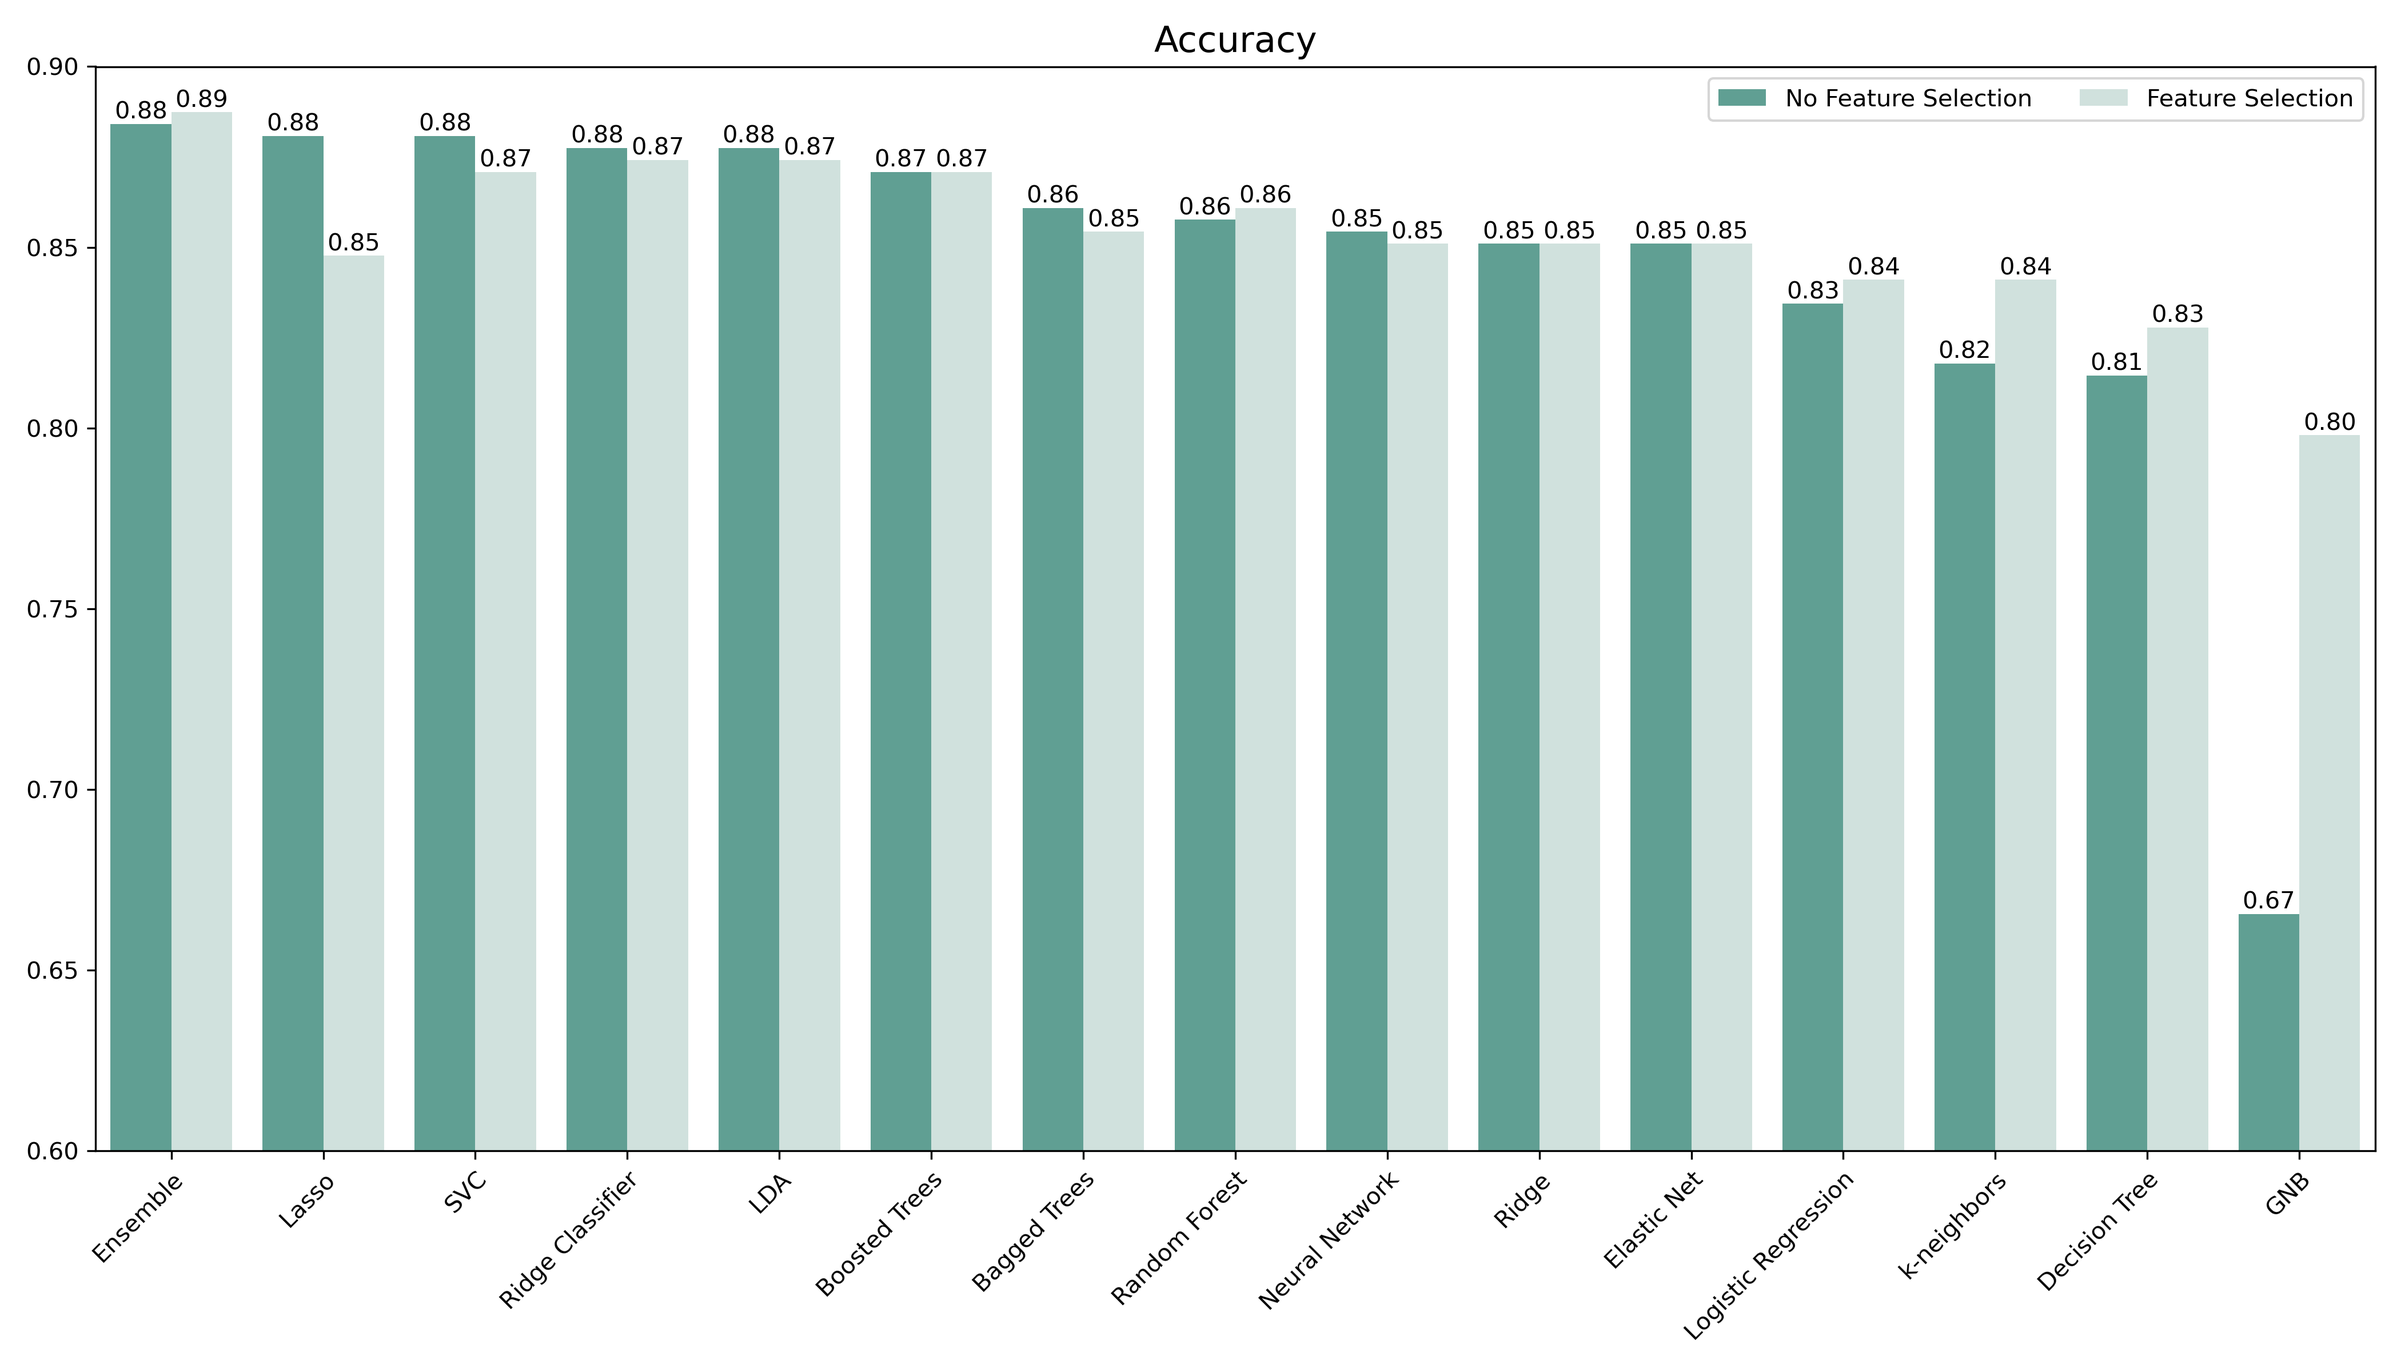
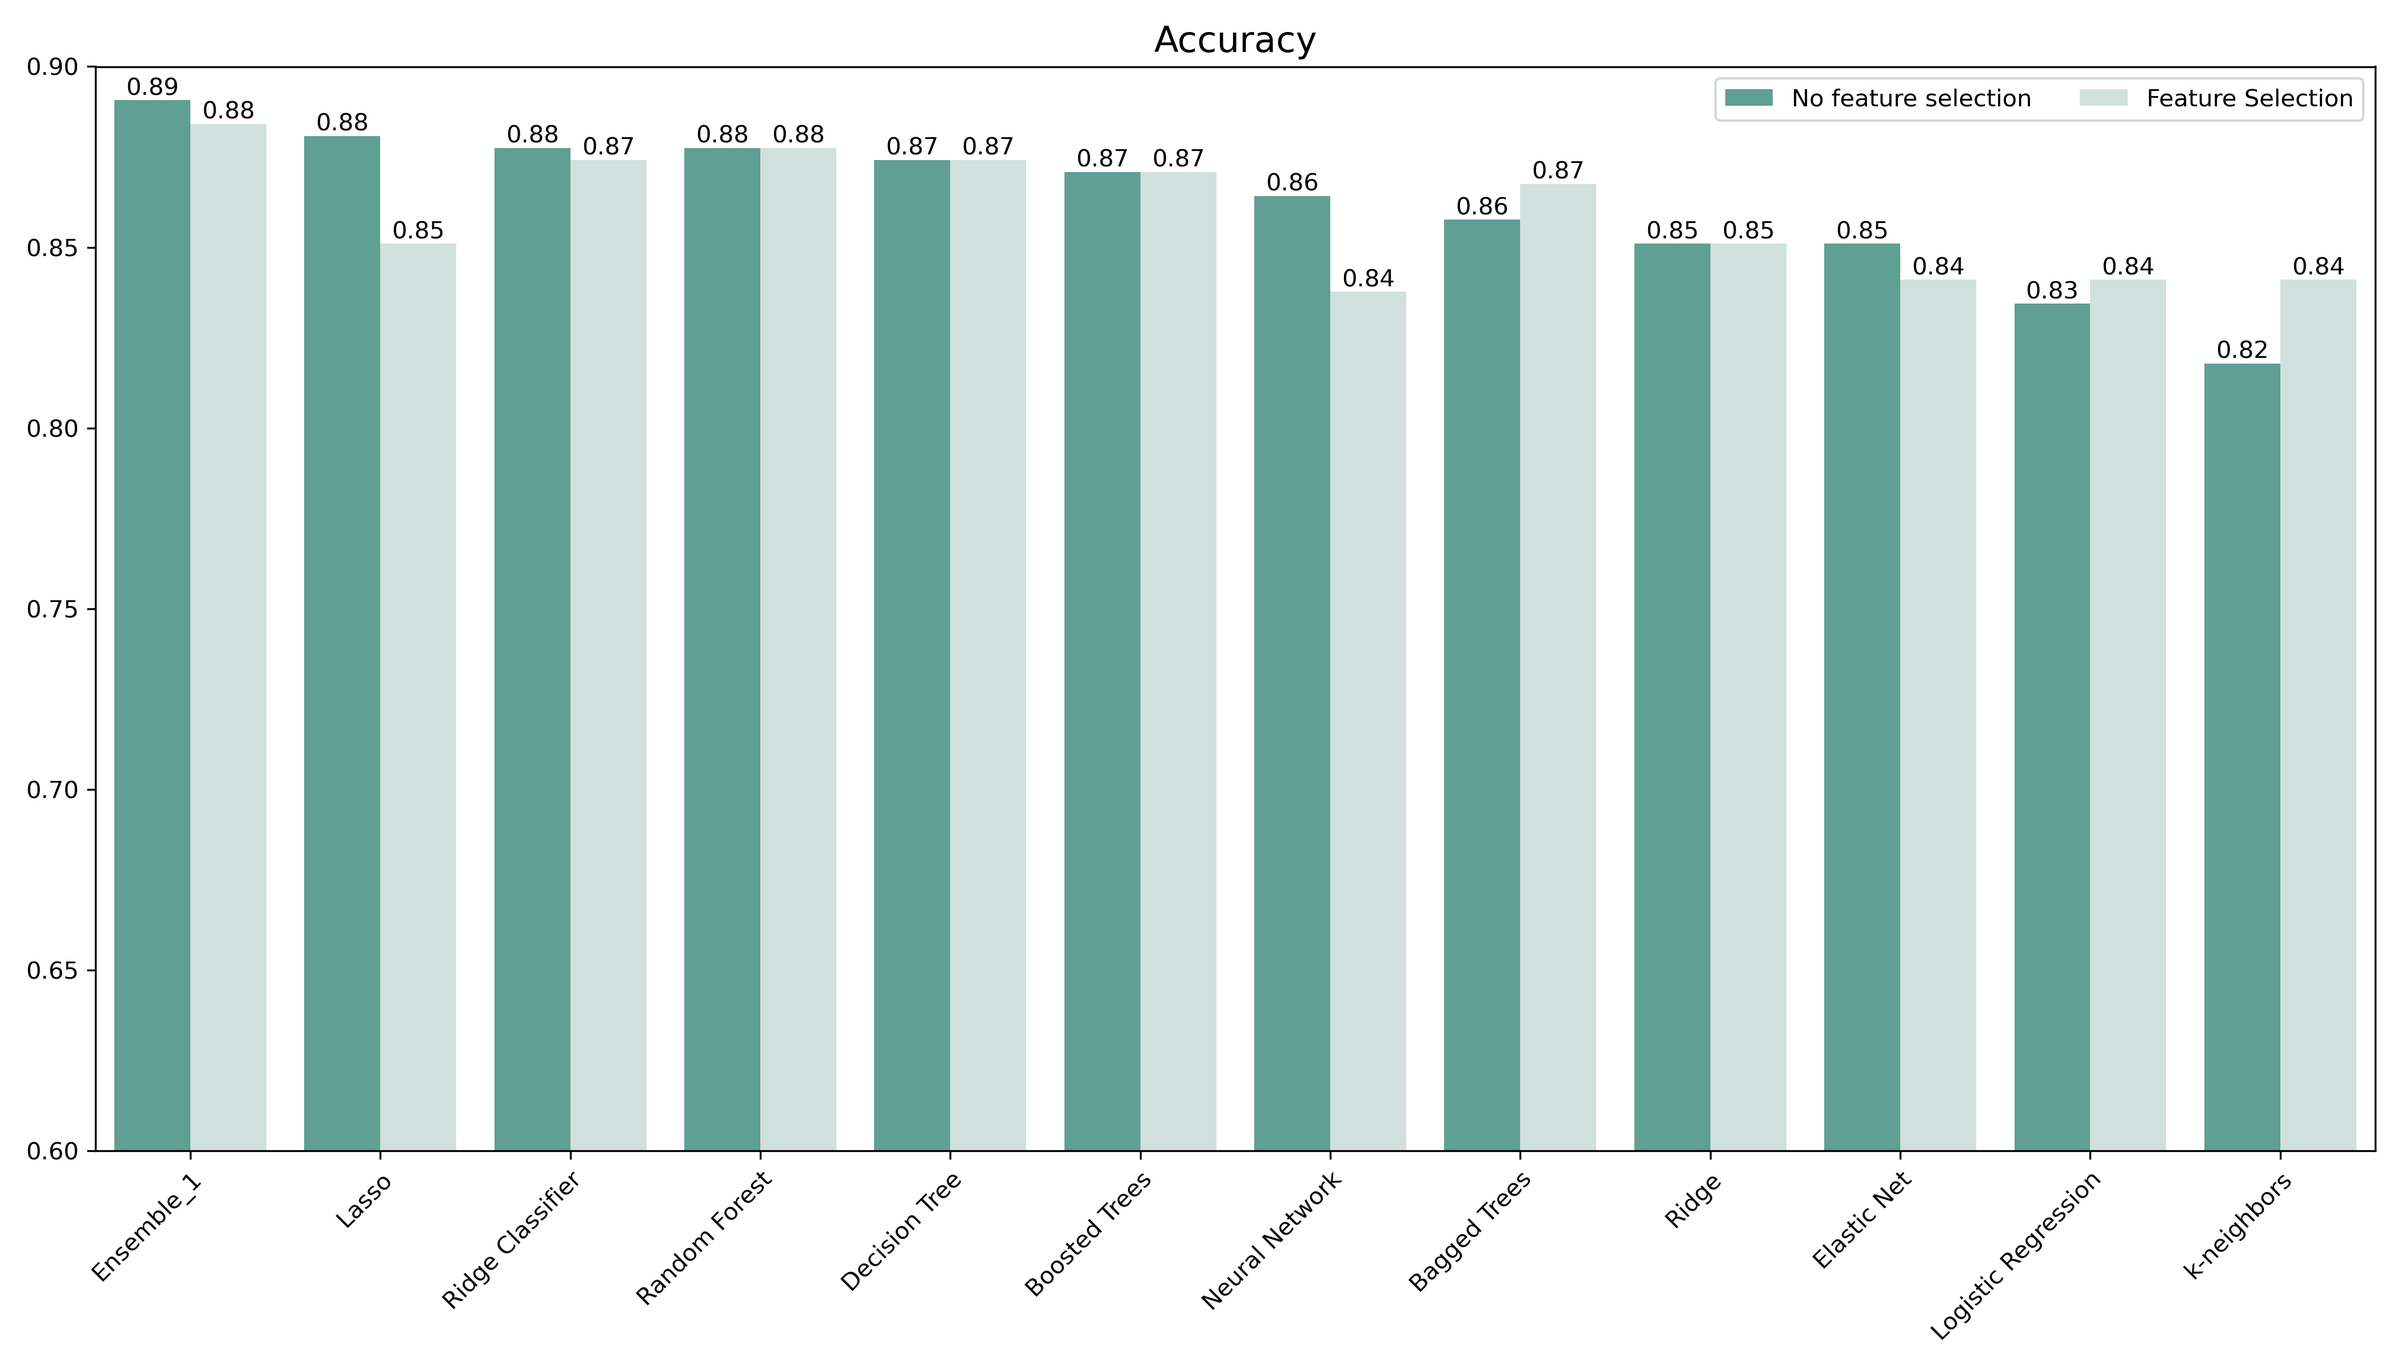
Commit before removing partyid. Also adding visualization for trees.

diff --git a/model_trump.py b/model_trump.py
@@ -23,10 +23,8 @@ from sklearn.feature_selection import SelectFromModel
 
 # sklearn: models:
 from sklearn.neural_network import MLPClassifier
-from sklearn.linear_model import LogisticRegression, RidgeClassifierCV
+from sklearn.linear_model import LogisticRegression, RidgeClassifier
 from sklearn.tree import DecisionTreeClassifier, plot_tree
-from sklearn.naive_bayes import GaussianNB
-from sklearn.discriminant_analysis import LinearDiscriminantAnalysis
 from sklearn.neighbors import KNeighborsClassifier
 from sklearn.svm import SVC
 from sklearn.ensemble import (
@@ -215,12 +213,9 @@ cat_vars = cat_vars.rename(
     }
 )
 
-cat_cols = 3
-cat_rows = 2
-
-fig, axes = plt.subplots(cat_rows, cat_cols, figsize=(14, 8))
+fig, axes = plt.subplots(2, 3, figsize=(14, 8))
 for index, key in enumerate(cat_vars):
-    plt.subplot(cat_rows, cat_cols, index + 1)
+    plt.subplot(2, 3, index + 1)
     sns.countplot(
         data=cat_vars,
         x=key,
@@ -250,10 +245,9 @@ spend_vars = spend_vars.rename(
     }
 )
 
-
-fig, axes = plt.subplots(cat_rows, cat_cols, figsize=(14, 8))
+fig, axes = plt.subplots(2, 3, figsize=(14, 8))
 for index, key in enumerate(spend_vars):
-    plt.subplot(cat_rows, cat_cols, index + 1)
+    plt.subplot(2, 3, index + 1)
     sns.countplot(
         data=spend_vars,
         x=key,
@@ -285,12 +279,9 @@ bin_vars = bin_vars.rename(
     }
 )
 
-bin_cols = 3
-bin_rows = 3
-
-fig, axes = plt.subplots(bin_rows, bin_cols, figsize=(14, 8))
+fig, axes = plt.subplots(3, 3, figsize=(14, 8))
 for index, key in enumerate(bin_vars):
-    plt.subplot(bin_rows, bin_cols, index + 1)
+    plt.subplot(3, 3, index + 1)
     sns.countplot(data=bin_vars, x=key, palette="colorblind")
     plt.ylabel(None)
     plt.xlabel(None)
@@ -315,12 +306,9 @@ con_vars = con_vars.rename(
     }
 )
 
-con_cols = 2
-con_rows = 3
-
-fig, axes = plt.subplots(con_rows, con_cols, figsize=(14, 8))
+fig, axes = plt.subplots(3, 2, figsize=(14, 8))
 for index, key in enumerate(con_vars):
-    plt.subplot(con_rows, con_cols, index + 1)
+    plt.subplot(3, 2, index + 1)
     sns.histplot(data=con_vars, x=key, discrete=True, color="#56b4e9")
     plt.ylabel(None)
     plt.xlabel(None)
@@ -364,14 +352,14 @@ def feat_selection(X_train, X_test, y_train):
     print(f"Selected features: {len(sel_cols)}")
     print(f"Removed features: {len(rem_cols)}")
 
-    X_train_sel = X_train[sel_cols]
-    X_test_sel = X_test[sel_cols]
+    X_train_fs = X_train[sel_cols]
+    X_test_fs = X_test[sel_cols]
 
-    return X_train_sel, X_test_sel
+    return X_train_fs, X_test_fs
 
 
 # create new data sets with selected features
-X_train_sel, X_test_sel = feat_selection(X_train, X_test, y_train)
+X_train_fs, X_test_fs = feat_selection(X_train, X_test, y_train)
 
 # init all models in pipeline (can be used to combine functions)
 pipelines = {
@@ -393,82 +381,87 @@ pipelines = {
             penalty="elasticnet", solver="saga", max_iter=10000, random_state=1234
         )
     ),
-    "Ridge Classifier": make_pipeline(RidgeClassifierCV()),
+    "Ridge Classifier": make_pipeline(RidgeClassifier(random_state=1234)),
     "Decision Tree": make_pipeline(DecisionTreeClassifier(random_state=1234)),
-    "Random Forest": make_pipeline(RandomForestClassifier()),
+    "Random Forest": make_pipeline(RandomForestClassifier(random_state=1234)),
     "Bagged Trees": make_pipeline(BaggingClassifier(random_state=1234)),
     "Boosted Trees": make_pipeline(GradientBoostingClassifier(random_state=1234)),
     "k-neighbors": make_pipeline(MinMaxScaler(), KNeighborsClassifier()),
     "Neural Network": make_pipeline(MLPClassifier(random_state=1234, max_iter=1000)),
-    "Ensemble": make_pipeline(
+    "Ensemble_1": make_pipeline(
         StackingClassifier(
             estimators=[
-                ("ridge", RidgeClassifierCV()),
-                ("lda", LinearDiscriminantAnalysis()),
+                ("ridge", RidgeClassifier(random_state=1234)),
+                ("dtc", DecisionTreeClassifier(random_state=1234)),
             ],
             final_estimator=LogisticRegression(
-                penalty="none", max_iter=10000, random_state=1234
+                penalty="l1", solver="saga", max_iter=10000, random_state=1234
             ),
         )
     ),
-    "GNB": make_pipeline(GaussianNB()),
-    "LDA": make_pipeline(LinearDiscriminantAnalysis()),
-    "SVC": make_pipeline(MinMaxScaler(), SVC(random_state=1234)),
 }
 
 # Init Hyperparameter Tuning (specify model parameters to loop through and find best)
 hypergrid = {
     "Logistic Regression": {},
-    "Lasso": {"logisticregression__C": np.logspace(-4, 4, 10)},
-    "Ridge": {"logisticregression__C": np.logspace(-4, 4, 10)},
+    "Lasso": {"logisticregression__C": np.logspace(-3, 3, 10)},
+    "Ridge": {"logisticregression__C": np.logspace(-3, 3, 10)},
     "Elastic Net": {
         "logisticregression__l1_ratio": np.arange(0, 1, 0.1),
-        "logisticregression__C": np.logspace(-4, 4, 10),
+        "logisticregression__C": np.logspace(-3, 3, 10),
     },
-    "Ridge Classifier": {"ridgeclassifiercv__alphas": np.arange(0.1, 1, 0.1)},
+    "Ridge Classifier": {"ridgeclassifier__alpha": np.arange(0.1, 1, 0.1)},
     "Decision Tree": {
-        "decisiontreeclassifier__min_samples_split": [2, 4, 6],
-        "decisiontreeclassifier__min_samples_leaf": [1, 2, 3],
+        "decisiontreeclassifier__min_samples_split": [2, 3, 4],
+        "decisiontreeclassifier__min_samples_leaf": [20, 30, 40],
+        "decisiontreeclassifier__criterion": ["gini", "entropy", "log_loss"],
+        "decisiontreeclassifier__max_depth": [None, 8, 16],
+        "decisiontreeclassifier__max_features": [None, "sqrt", "log2"],
     },
     "Random Forest": {
-        "randomforestclassifier__n_estimators": [10, 100, 1000],
-        "randomforestclassifier__max_features": ["sqrt", "log2"],
+        "randomforestclassifier__n_estimators": [10, 20, 30],
+        "randomforestclassifier__max_depth": [None, 4, 8, 16],
+        "randomforestclassifier__min_samples_split": [2, 4],
+        "randomforestclassifier__min_samples_leaf": [5, 10, 20],
+        "randomforestclassifier__max_features": ["sqrt", "log2", None],
     },
-    "Bagged Trees": {"baggingclassifier__n_estimators": [10, 100, 1000]},
+    "Bagged Trees": {
+        "baggingclassifier__n_estimators": [10, 20, 30],
+        "baggingclassifier__max_samples": np.arange(0.1, 1, 0.2),
+        "baggingclassifier__max_features": np.arange(0.1, 1, 0.2),
+    },
     "Boosted Trees": {
-        "gradientboostingclassifier__n_estimators": [10, 100, 1000],
-        "gradientboostingclassifier__learning_rate": [0.01, 0.1, 0.5, 1],
+        "gradientboostingclassifier__n_estimators": [50, 100, 200],
+        "gradientboostingclassifier__learning_rate": [0.001, 0.005, 0.01],
+        "gradientboostingclassifier__loss": ["log_loss", "exponential"],
     },
     "k-neighbors": {
-        "kneighborsclassifier__leaf_size": [10, 20, 30, 40, 50],
         "kneighborsclassifier__n_neighbors": np.arange(1, 20, 1),
+        "kneighborsclassifier__leaf_size": [2, 3, 4],
         "kneighborsclassifier__p": [1, 2],
         "kneighborsclassifier__metric": ["euclidean", "manhattan", "minkowski"],
         "kneighborsclassifier__weights": ["uniform", "distance"],
     },
     "Neural Network": {
-        "mlpclassifier__alpha": [0.0001, 0.05],
-        "mlpclassifier__learning_rate": ["constant", "adaptive"],
+        "mlpclassifier__hidden_layer_sizes": [(60,), (70,), (80,), (100,)],
+        "mlpclassifier__alpha": [0.0001, 0.00015, 0.0002],
     },
-    "Ensemble": {},
-    "GNB": {},
-    "LDA": {},
-    "SVC": {},
+    "Ensemble_1": {},
 }
 
 # Train Hyperparameter Tuning (find best parameters for each model through 10-fold CV)
-fit_models = {}  # without feature selection
-fit_models_sel = {}  # only selected features
+fit_models = {}  # with hyperparameter tuning but without feature selection
+fit_models_fs = {}  # with hyperparameter tuning and feature selection
 print("\n***** TRAINING MODELS *****")
 for algo, pipeline in pipelines.items():
     model = GridSearchCV(pipeline, hypergrid[algo], cv=10, n_jobs=-1)
-    model_sel = GridSearchCV(pipeline, hypergrid[algo], cv=10, n_jobs=-1)
+    model_fs = GridSearchCV(pipeline, hypergrid[algo], cv=10, n_jobs=-1)
     try:
-        model.fit(X_train, y_train)  # without feature selection
+        model.fit(X_train, y_train)  # tuning without feature selection
         fit_models[algo] = model
 
-        model_sel.fit(X_train_sel, y_train)  # with feature selection
-        fit_models_sel[algo] = model_sel
+        model_fs.fit(X_train_fs, y_train)  # tuning with with feature selection
+        fit_models_fs[algo] = model_fs
 
         print(f"{algo} successful.")
     except NotFittedError as e:
@@ -482,9 +475,12 @@ print("***** TRAINING MODELS DONE *****\n")
 # if you want to see all parameters of the model:
 # fit_models["LR"].best_estimator_.get_params()
 
-# evaluate performance on test partition
+
+## evaluate performance on test partition
+
+# WITH HYPERPARAMETER TUNING AND NO FEATURE SELECTION
 results = {}
-print("***** RESULTS WITHOUT FEATURE SELECTION *****\n")
+print("***** RESULTS WITH TUNING BUT WITHOUT FEATURE SELECTION *****\n")
 for algo, model in fit_models.items():
     print(f"Predicting {algo}...")
 
@@ -492,55 +488,71 @@ for algo, model in fit_models.items():
 
     conf_mat = confusion_matrix(y_test, y_hat)
 
-    print(f"Accuracy Score: {accuracy_score(y_test, y_hat)}")
-    print(f"Precision Score: {precision_score(y_test, y_hat)}")
-    print(f"Recall Score: {recall_score(y_test, y_hat)}")
-    print(f"Confusion Matrix:\n {conf_mat}\n")
+    # print(f"Accuracy Score: {accuracy_score(y_test, y_hat)}")
+    # print(f"Precision Score: {precision_score(y_test, y_hat)}")
+    # print(f"Recall Score: {recall_score(y_test, y_hat)}")
+    # print(f"Confusion Matrix:\n {conf_mat}\n")
 
     results[algo] = []
     results[algo].append(accuracy_score(y_test, y_hat))
     results[algo].append(precision_score(y_test, y_hat))
     results[algo].append(recall_score(y_test, y_hat))
+    results[algo].append(conf_mat)
 
 
 results_df = pd.DataFrame.from_dict(
-    results, orient="index", columns=["Accuracy", "Precision", "Recall"]
+    results,
+    orient="index",
+    columns=["Accuracy", "Precision", "Recall", "Confusion Matrix"],
 )
 
-results_sel = {}
-print("***** RESULTS WITH FEATURE SELECTION *****")
-for algo, model in fit_models_sel.items():
+# WITH HYPERPARAMETER TUNING AND FEATURE SELECTION
+results_fs = {}
+print("***** RESULTS WITH TUNING AND FEATURE SELECTION *****")
+for algo, model in fit_models_fs.items():
     print(f"Predicting {algo}...")
 
-    y_hat = model.predict(X_test_sel)
+    y_hat = model.predict(X_test_fs)
 
     conf_mat = confusion_matrix(y_test, y_hat)
 
-    print(f"Accuracy Score: {accuracy_score(y_test, y_hat)}")
-    print(f"Precision Score: {precision_score(y_test, y_hat)}")
-    print(f"Recall Score: {recall_score(y_test, y_hat)}")
-    print(f"Confusion Matrix:\n {conf_mat}\n")
+    # print(f"Accuracy Score: {accuracy_score(y_test, y_hat)}")
+    # print(f"Precision Score: {precision_score(y_test, y_hat)}")
+    # print(f"Recall Score: {recall_score(y_test, y_hat)}")
+    # print(f"Confusion Matrix:\n {conf_mat}\n")
 
-    results_sel[algo] = []
-    results_sel[algo].append(accuracy_score(y_test, y_hat))
-    results_sel[algo].append(precision_score(y_test, y_hat))
-    results_sel[algo].append(recall_score(y_test, y_hat))
+    results_fs[algo] = []
+    results_fs[algo].append(accuracy_score(y_test, y_hat))
+    results_fs[algo].append(precision_score(y_test, y_hat))
+    results_fs[algo].append(recall_score(y_test, y_hat))
+    results_fs[algo].append(conf_mat)
 
 
-results_sel_df = pd.DataFrame.from_dict(
-    results_sel, orient="index", columns=["Accuracy", "Precision", "Recall"]
+results_fs_df = pd.DataFrame.from_dict(
+    results_fs,
+    orient="index",
+    columns=["Accuracy", "Precision", "Recall", "Confusion Matrix"],
 )
+
+# save results as pickle
+# without feature selection
+with open("Models/model_results.pkl", "wb") as handle:
+    pickle.dump(fit_models, handle, protocol=pickle.HIGHEST_PROTOCOL)
+
+# with feature selection
+with open("Models/model_results_fs.pkl", "wb") as handle:
+    pickle.dump(fit_models_fs, handle, protocol=pickle.HIGHEST_PROTOCOL)
 
 
 # Visualize results
 # create combined "accuracy" dataframe
 all_models_accuracy = pd.concat(
-    [results_df["Accuracy"], results_sel_df["Accuracy"]],
+    [results_df["Accuracy"], results_fs_df["Accuracy"]],
     axis=1,
-    keys=["No Feature Selection", "Feature Selection"],
+    keys=["No feature selection", "Feature Selection"],
 )
 all_models_accuracy.sort_values(
-    by=["No Feature Selection"], ascending=False, inplace=True
+    by=["No feature selection"], ascending=False, inplace=True
 )
 all_models_accuracy["Model"] = all_models_accuracy.index
 all_models_accuracy = all_models_accuracy.melt(id_vars="Model", value_name="Accuracy")
@@ -566,14 +578,47 @@ plt.savefig("Plots/results.png", dpi=300)
 plt.close(fig)
 
 
-# save as pickle
-# without feature selection
-with open("Models/model_results.pkl", "wb") as handle:
-    pickle.dump(fit_models, handle, protocol=pickle.HIGHEST_PROTOCOL)
+# visualize trees
+trees = {
+    "decision_tree": fit_models["Decision Tree"].best_estimator_.named_steps[
+        "decisiontreeclassifier"
+    ],
+    "random_forest_tree": fit_models["Random Forest"]
+    .best_estimator_.named_steps["randomforestclassifier"]
+    .estimators_[0],
+    "bagged_tree": fit_models["Bagged Trees"]
+    .best_estimator_.named_steps["baggingclassifier"]
+    .estimators_[0],
+    "boosted_tree": fit_models["Boosted Trees"]
+    .best_estimator_.named_steps["gradientboostingclassifier"]
+    .estimators_[0][0],
+}
 
-# with feature selection
-with open("Models/model_results_fs.pkl", "wb") as handle:
-    pickle.dump(fit_models_sel, handle, protocol=pickle.HIGHEST_PROTOCOL)
+for name, tree in trees.items():
+    fig = plt.figure(figsize=(14, 8))
+    _ = plot_tree(
+        tree,
+        feature_names=X_train.columns,
+        filled=True,
+        class_names=["Voted Other", "Voted Trump"],
+    )
+    plt.savefig("Plots/" + name + ".png", dpi=300)
+    plt.close(fig)
 
+# feature importance for decision tree
+dtc_feature_importance = pd.DataFrame(
+    trees["decision_tree"].feature_importances_, index=X_train.columns
+).sort_values(by=0, ascending=False)
+
+# TODO: better plot
+fig, ax = plt.subplots(figsize=(14, 8))
+sns.barplot(
+    x=dtc_feature_importance.index[0:10],
+    y=dtc_feature_importance[0][0:10],
+)
+plt.xticks(rotation=45, ha="right", rotation_mode="anchor", fontsize=10)
+fig.tight_layout()
+plt.savefig("Plots/decision_tree_features.png", dpi=300)
+plt.close(fig)
 
 x = "stop"
